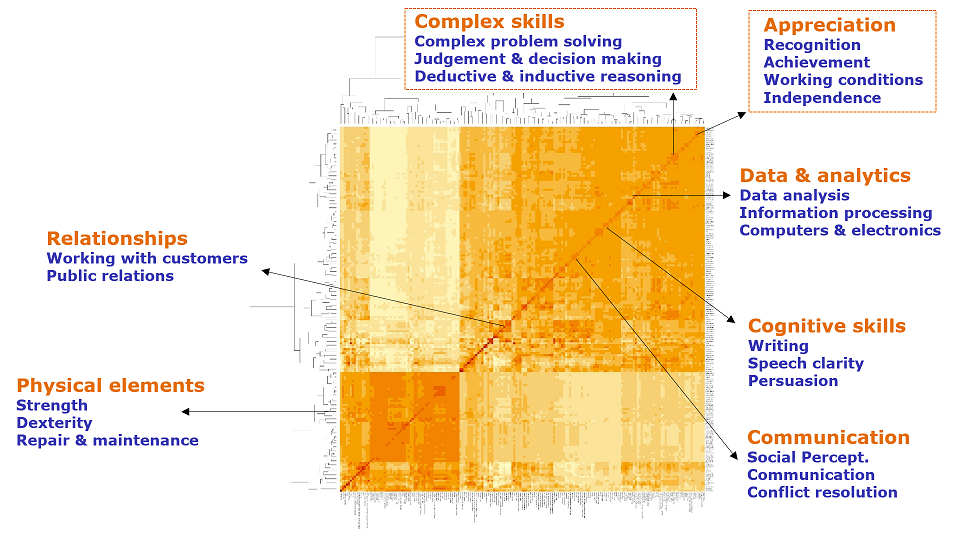
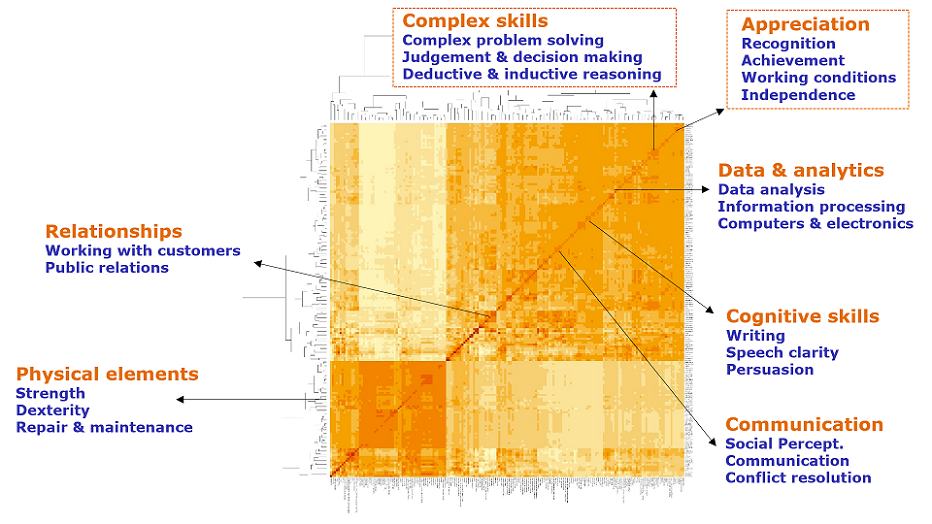
up

diff --git a/asg/fow/blog-post.html b/asg/fow/blog-post.html
@@ -380,10 +380,10 @@ social inclusion, self-esteem and more advanced levels of fulfillment.
 But good jobs are also the key to creating healthy and safe communities.
 At the level of our society, good jobs means that technological progress
 and economic growth are shared and no one is left behind. This is
-important as societies that grow too unequal eventually collapse. The
-importance of creating good jobs is increasingly recognized governments
-but also by the private sector - seeing it as a way to create a clear
-competitive advantage.</p>
+important as societies that grow too unequal eventually collapse [lot of
+uneq now]. The importance of creating good jobs is increasingly
+recognized governments but also by the private sector - seeing it as a
+way to create a clear competitive advantage.</p>
 </div>
 <div id="what-are-good-jobs" class="section level3">
 <h3>What are good jobs?</h3>
@@ -430,35 +430,43 @@ definitely serving society at large.</p>
 <div id="who-is-leading-the-green-transition" class="section level3">
 <h3>Who is leading the green transition?</h3>
 <p>We argue that good job policy should go beyond regulation on working
-conditions but also take into account this more systemic and scoietal
-appraoch by stimulating the creation of jobs in key areas such as the
-green transition. Ideally - we should measure the social impact of jobs.
-Here - as a matter of example and to illustrate this persepcitve we look
-at the creation of new green technologies. What is clear is that Europe
-dominates - despite lagging behind the US and China in many other
-technological areas (digital in particular). The interactive figure
-below displays the yearly amount of green patents. Europe has maintained
-a fairly stable dominant position in the green transition since the
-early 2000. This is remarkable, in the sense that this stability
-happened despite the meteoric rise of China. In less than 20 years,
-China increased its production of green patents by almost 20x. The main
-loser in relative terms is the United States, from almost 30% to about
-20% now. Japan is also on a declining trend since the 2008 financial
-crisis.</p>
+conditions but also take into account this more systemic and societal
+approach by stimulating the creation of jobs in key areas such as the
+green transition. As a matter of example and to illustrate this thinking
+the interactive below displays the creation of new green technologies
+(measured by international patents). What is clear is that Europe is
+leading - despite lagging behind the US and China in many other
+technological areas (digital in particular). Europe has maintained a
+fairly stable dominant position in the green transition since the early
+2000. This is remarkable, in the sense that this stability happened
+despite the meteoric rise of China. In less than 20 years, China
+increased its production of green patents by almost 20x. The main loser
+in relative terms is the United States, from almost 30% to about 20%
+now. Japan is also on a declining trend since the 2008 financial crisis.
+The important point here is that looking at the societal level -
+technology policy and good jobs are intrinsically intertwined.</p>
 <iframe src="https://www.paballand.com/asg/esir/fow/green-transition-velocity.html" height="405" width="910" style="border: 1px solid #464646;" allowfullscreen allow="autoplay" data-external="1">
 </iframe>
 <p><br /></p>
 </div>
 <div id="skills-and-tasks-over-jobs-and-career" class="section level3">
 <h3>Skills and tasks over jobs and career</h3>
-<p>Now zooming in to the structure of jobs and what elements make a good
-job at the individual level. We need to stop thinking in terms of jobs
-and careers, because they are will change and often disappear in a
-worker lifetime. Their border will shift and they will overlap with
-other jobs. Instead, we need to focus on developing specific skills and
-the ability to perform specific tasks. These skills and tasks are the
-anatomy of jobs and we can learn from them.</p>
-<iframe src="https://www.paballand.com/asg/fow/heatmap.png" height="405" width="910" style="border: 1px solid #464646;" allowfullscreen allow="autoplay" data-external="1">
+<p>Now zooming back to the individual level we need to go beyond jobs
+and careers and focus on skills and tasks. Jobs are a collection of
+tasks that require specific skills. AI automate tasks that happen to
+require human skills while some tasks are outsourced abroad when
+proximity is not needed to perform it. This double disruption causes the
+boundaries of jobs to shift, their structure to change and sometimes to
+disappear all together if the all portfolio of task can be performed
+with a machine or an AI. Looking at what elements characterize jobs and
+how they connect is highly informative of the overall quality of jobs.
+Below we present the clustering of elements such as abilities,
+education, knowledge, skills, work activities, work styles and work
+values from O*NET data. The clustering indicates the elements that are
+frequently associated with each other (for instance complex problem
+solving and working conditions)into the same jobs. This elements and
+their connections represents the DNA of jobs.</p>
+<iframe src="https://www.paballand.com/asg/fow/heatmap.png" height="600" width="910" style="border: 1px solid #464646;" allowfullscreen allow="autoplay" data-external="1">
 </iframe>
 </div>
 <div id="the-structure-of-jobs" class="section level3">
